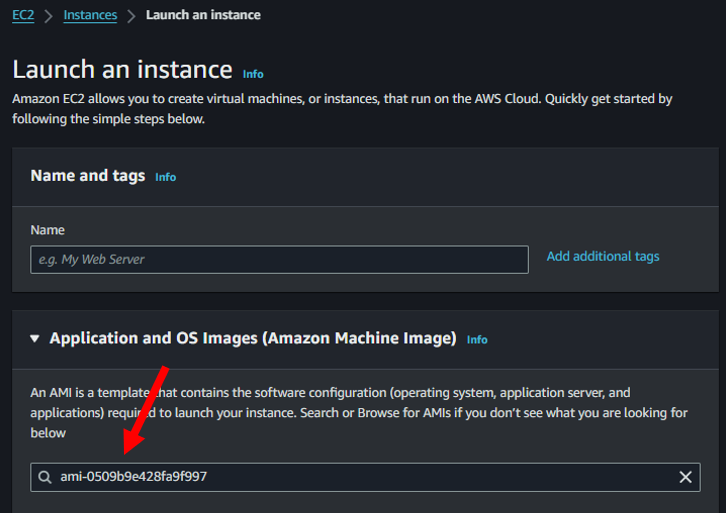
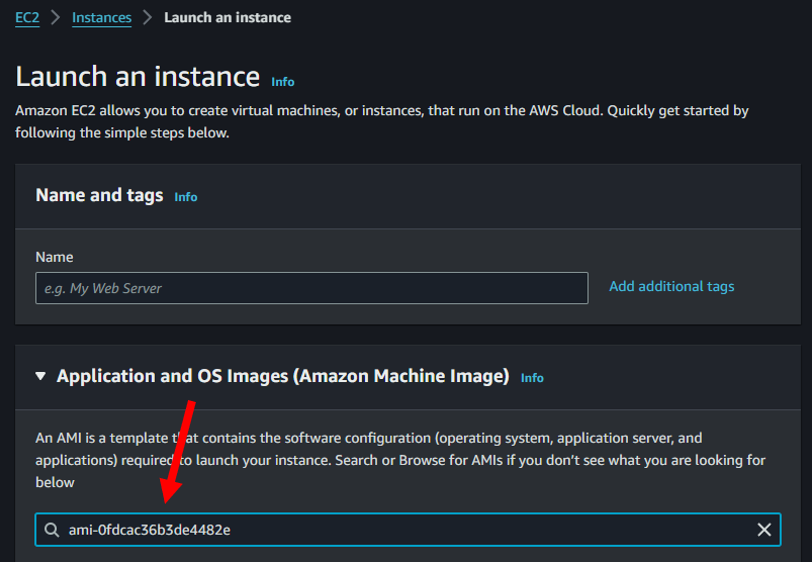
docs: update ami images

diff --git a/docs/getstarted.md b/docs/getstarted.md
@@ -14,7 +14,7 @@ git clone https://github.com/bombe-match/bombe-poc
 
 ## Test Environment
 
-We have publish a playground AMI `ami-0509b9e428fa9f997` (us-west-2) for you to test your sample. In AWS console, you can launch an new EC2 and search for our AMI `ami-0509b9e428fa9f997`.
+We have publish a playground AMI `ami-0fdcac36b3de4482e` (us-west-2) for you to test your sample. In AWS console, you can launch an new EC2 and search for our AMI `ami-0fdcac36b3de4482e`.
 
 !!! warning "Remember to switch region"
 
